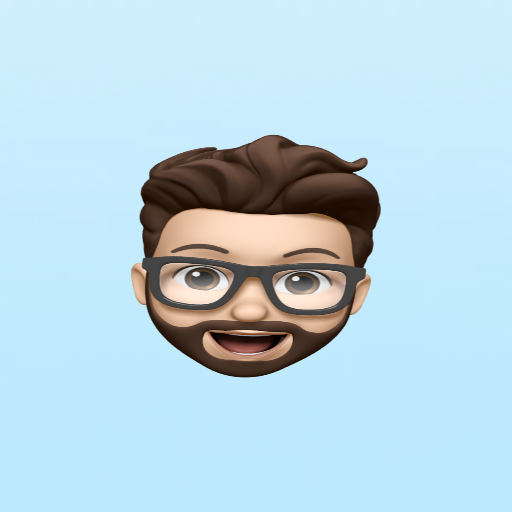
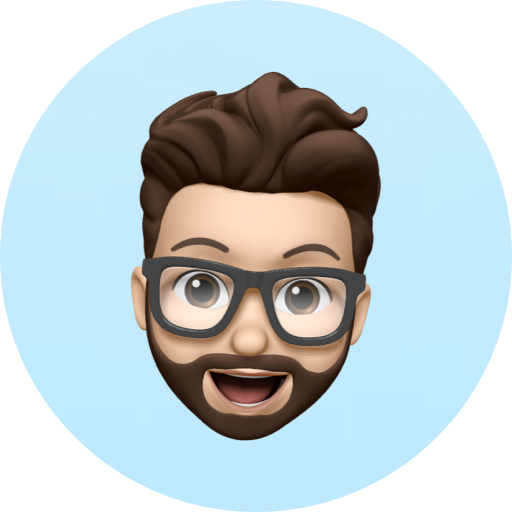
changes

diff --git a/index.html b/index.html
@@ -9,10 +9,10 @@
   <meta content="" name="keywords">
 
   <!-- Favicons -->
-  <link rel="apple-touch-icon" sizes="180x180" href="assets/img/apple-touch-icon.png">
+  <link rel="apple-touch-icon" sizes="180x180" href="/assets/img/apple-touch-icon.png">
   <link rel="icon" type="image/png" sizes="32x32" href="assets/img/favicon-32x32.png">
   <link rel="icon" type="image/png" sizes="16x16" href="assets/img/favicon-16x16.png">
-  <link rel="manifest" href="assets/img/site.webmanifest">  
+  <link rel="manifest" href="assets/img/site.webmanifest">
 
   <!-- Google Fonts -->
   <link href="https://fonts.googleapis.com/css?family=Open+Sans:300,300i,400,400i,600,600i,700,700i|Raleway:300,300i,400,400i,500,500i,600,600i,700,700i|Poppins:300,300i,400,400i,500,500i,600,600i,700,700i" rel="stylesheet">

diff --git a/resume.html b/resume.html
@@ -9,7 +9,7 @@
   <meta content="" name="keywords">
 
   <!-- Favicons -->
-  <link rel="apple-touch-icon" sizes="180x180" href="assets/img/apple-touch-icon.png">
+  <link rel="apple-touch-icon" sizes="180x180" href="/assets/img/apple-touch-icon.png">
   <link rel="icon" type="image/png" sizes="32x32" href="assets/img/favicon-32x32.png">
   <link rel="icon" type="image/png" sizes="16x16" href="assets/img/favicon-16x16.png">
   <link rel="manifest" href="assets/img/site.webmanifest">  

diff --git a/assets/css/portfolio.css b/assets/css/portfolio.css
@@ -251,7 +251,7 @@ h6 {
 #hero {
   width: 100%;
   height: 100vh;
-  background: url('../img/code.jpg') top right no-repeat;
+  background: url('../img/bitmoji.png') top right no-repeat;
   background-size: cover;
   position: relative;
 }
